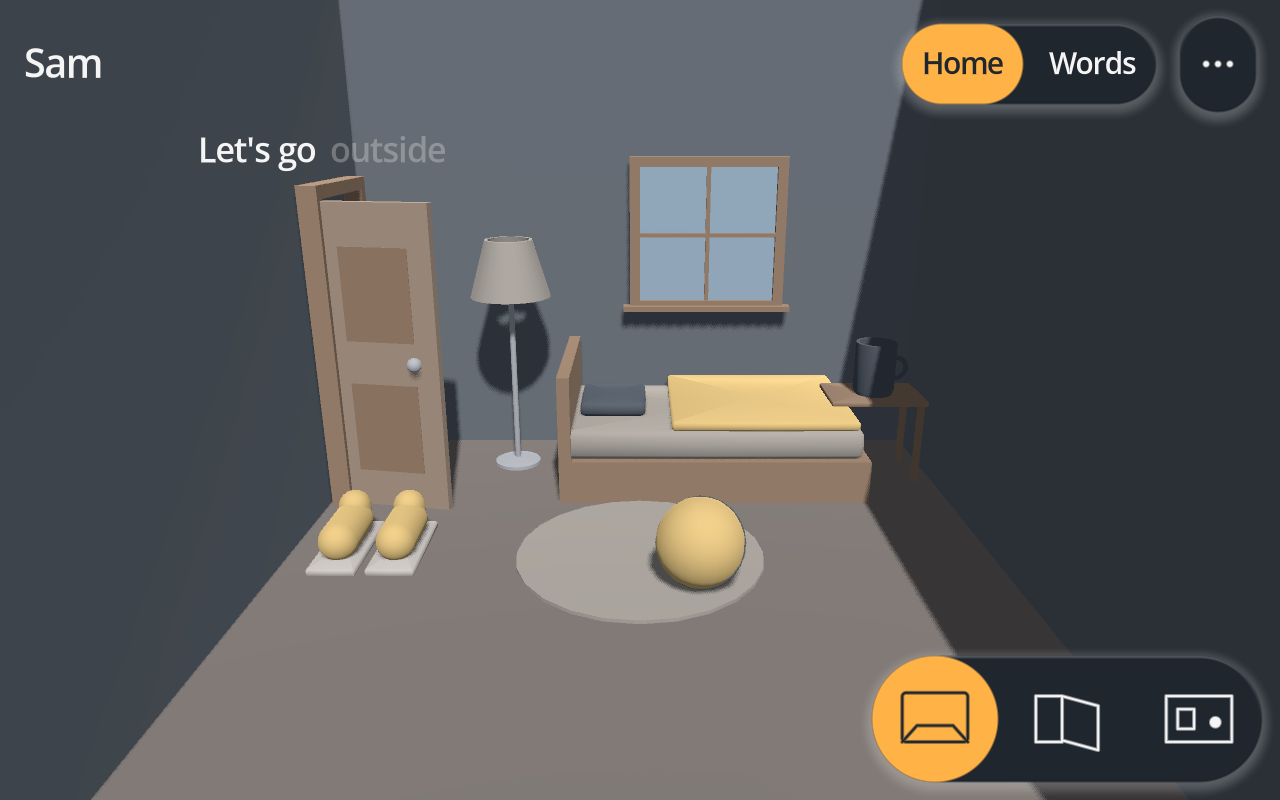
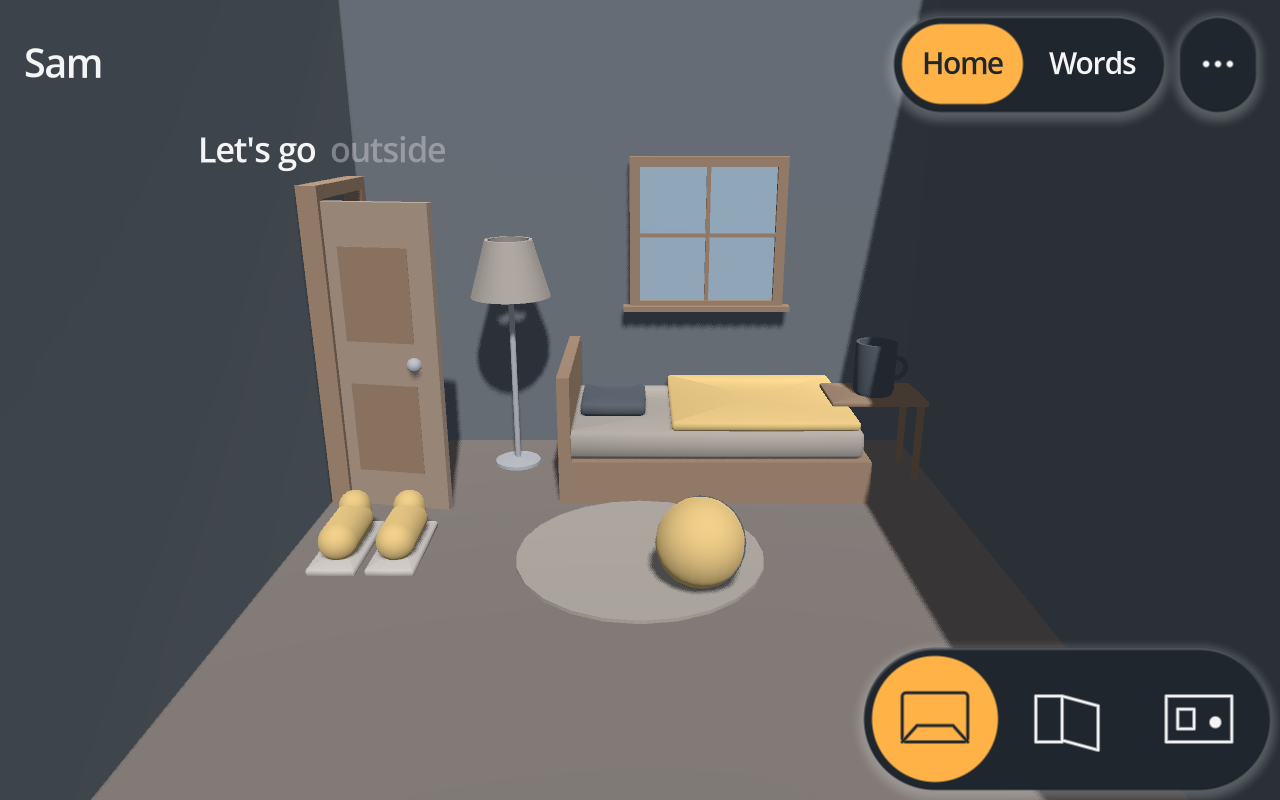
feat(ui) restyle the profile picker with the field-drawn controls (#9)

diff --git a/docs/ui.md b/docs/ui.md
@@ -45,19 +45,22 @@ is `PASS`, so a tap on its padding does not.
 | `SdfButton` | `Button` | A Button with empty style boxes and an `SdfShape` behind its text. Hover adds a border, a press pulls the shape in, active fills with the accent. `shape` is rounded, pill or circle. `quiet` is a bar item. |
 | `SdfPanel` | `PanelContainer` | A panel with an `SdfShape` behind its content, a larger radius, and `inner_radius()` for what sits in it. |
 | `PillBar` | `MarginContainer` | A floating pill of quiet pill buttons in one toggle group: the place strip, the view widget. A view button is seven tenths of the tile floor, never under 96 px. |
+| `SdfField` | `LineEdit` | A text field with an `SdfShape` behind it; focus adds the accent border. |
 | `HoldButton` | `SdfButton` | Fires only after a hold. Every adult screen sits behind one. |
 
 The background quad an `SdfShape` paints is the control grown by `SdfShape.PAD_PX` on each side, so the
 shadow has room. It is drawn with `draw_texture_rect` over a white texture because a plain rect carries no UVs
 for the shader to read.
 
-## What stays stock
+## The profile picker
 
-`LineEdit`, `OptionButton`, `ItemList` and `HSeparator` on the profile picker keep the theme's style boxes.
-They are adult-facing, used once at setup, and each would need its own field-drawn control to replace. They
-are the only rasterized shapes left.
+The adults' first screen uses the same controls as the room's chrome: each profile is one button that opens
+it, the name is an `SdfField`, the starter pack and the style are pill bars with the choice pressed, and
+Create is the one `primary` button. Nothing on it is drawn by a theme style box.
 
 ## Gates
 
 `ui_geometry_test.gd` covers the pure numbers. The shaders have no headless gate; `just screenshot` renders
-`docs/img/room.png` (the Bold style, one object triggered) and `docs/img/record.png`, which is where they are checked.
+`docs/img/room.png` (the Bold style, one object triggered), `docs/img/record.png` and `docs/img/picker.png`,
+which is where they are checked. The picker image lists whatever profiles the machine holds, so it is ignored
+by git and stays local.
